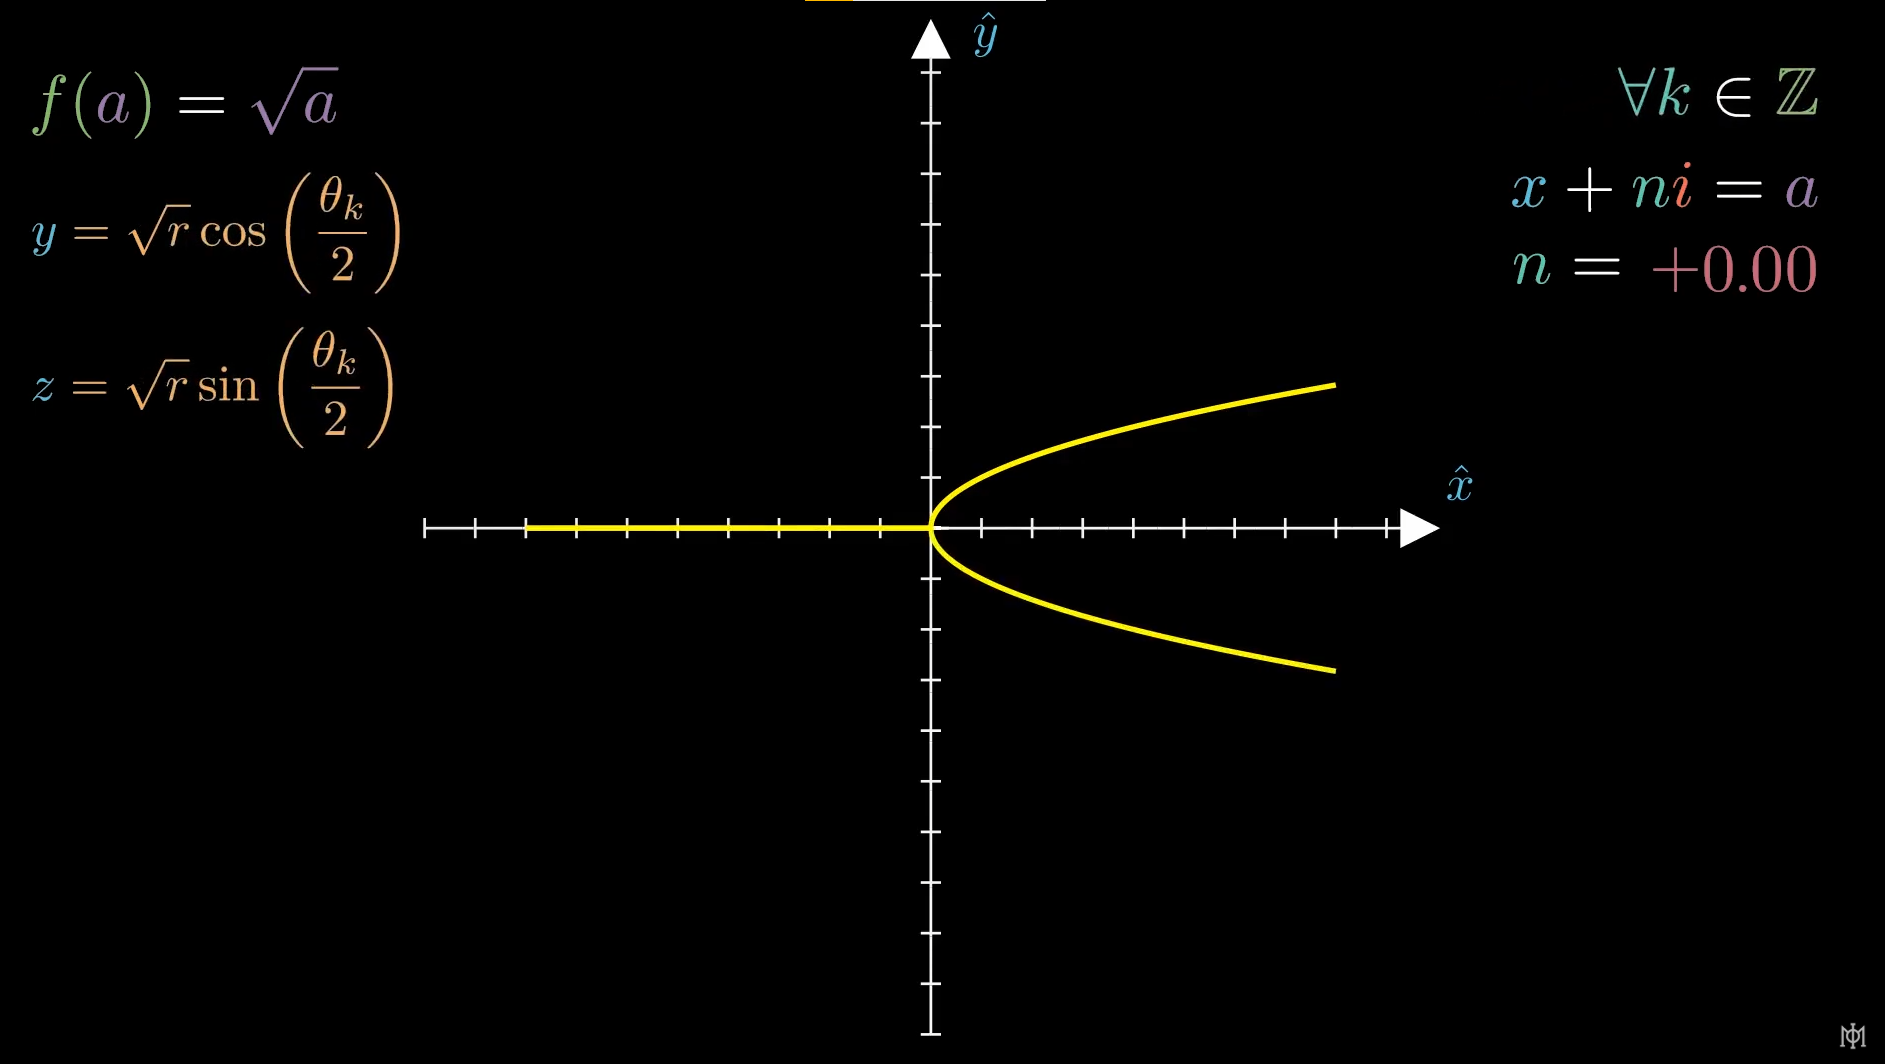
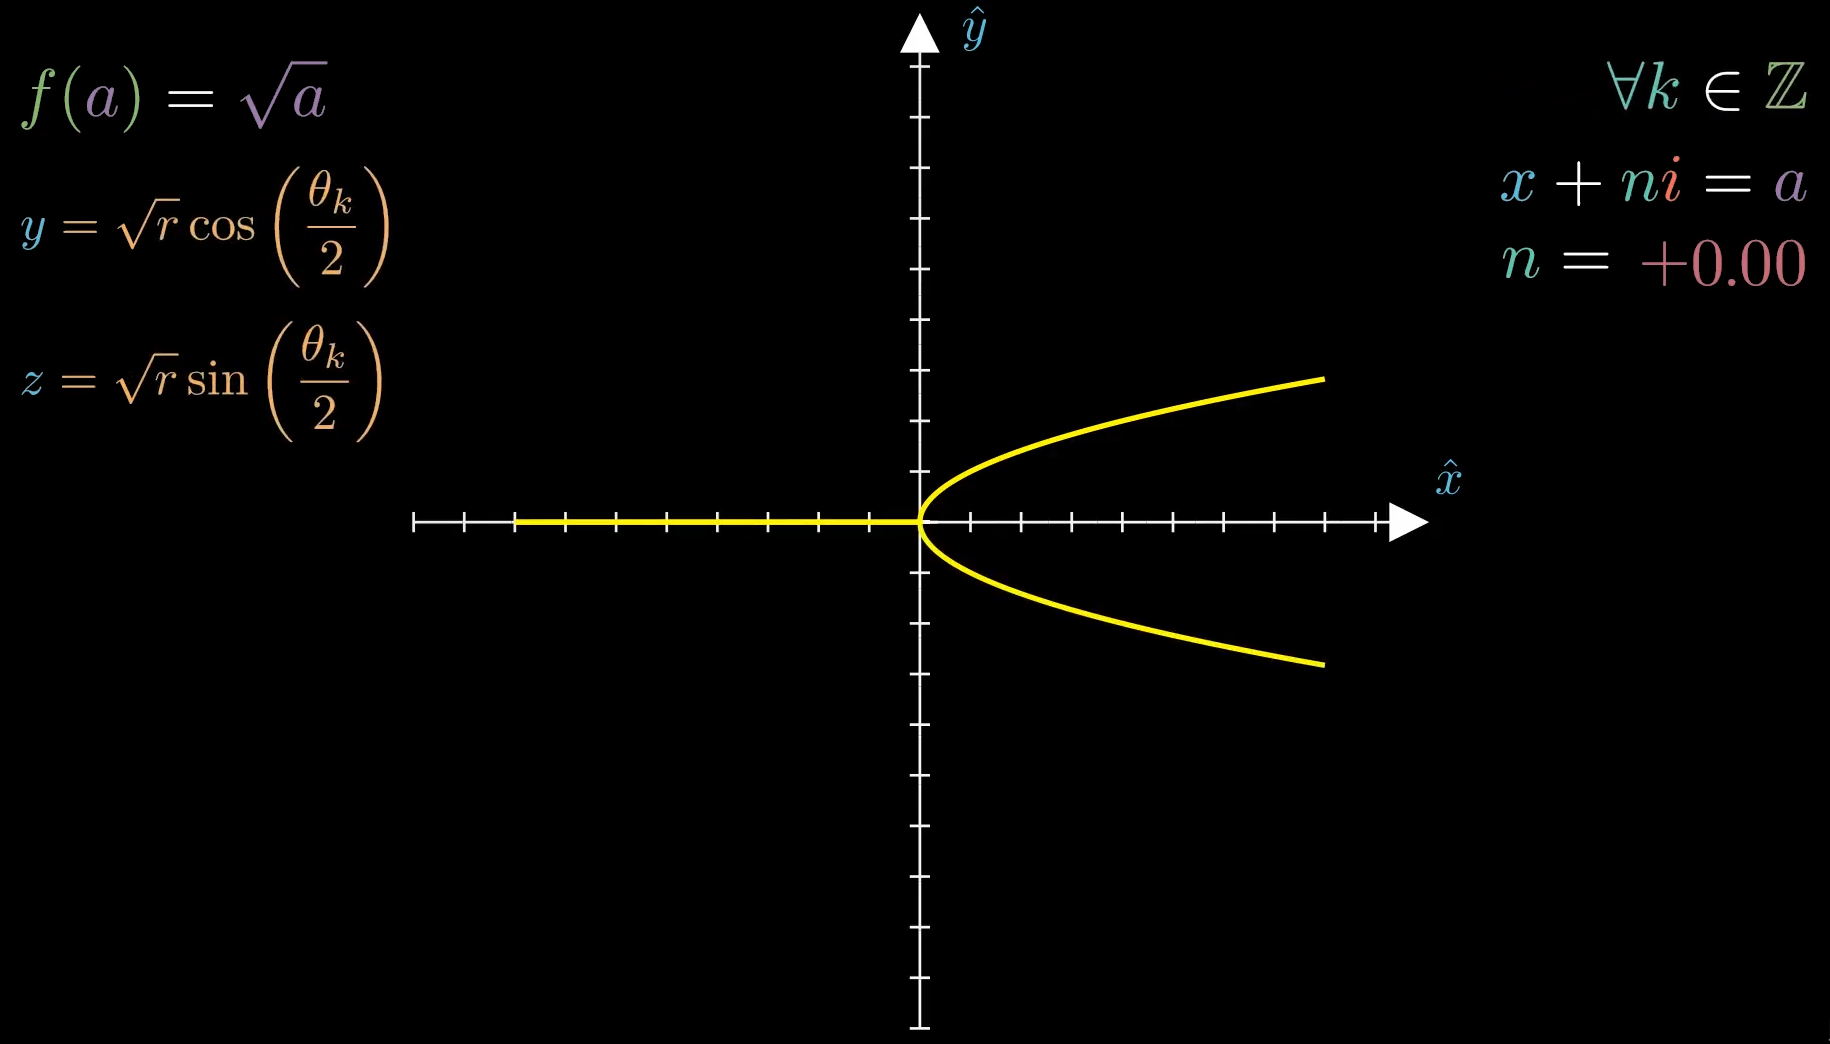
Add files via upload

diff --git a/js/inyectar-proyecto.js b/js/inyectar-proyecto.js
@@ -641,11 +641,14 @@ document.addEventListener('DOMContentLoaded', async () => {
         // 2. Sección opcional: Imágenes (carrusel) y Descripción
         renderDescripcionYImagenes(meta, folder, projectId);
 
-        // 3. Logs del Diarium
+        // 3. Logs del Diarium (pestaña dinámica "Bitácora")
         const projLogsList = document.getElementById('proj-logs-list');
-        if (projLogsList) {
-            const filteredLogs = diariumLogs.filter(log => log.proyecto === projectId);
-            if (filteredLogs.length > 0) {
+        const tabDiariumBtn = document.getElementById('tab-btn-diarium');
+        const filteredLogs = diariumLogs.filter(log => log.proyecto === projectId);
+
+        if (filteredLogs.length > 0) {
+            if (tabDiariumBtn) tabDiariumBtn.classList.remove('hidden');
+            if (projLogsList) {
                 projLogsList.innerHTML = filteredLogs.map(log => `
                     <div class="log-card">
                         <div class="log-header">
@@ -654,9 +657,10 @@ document.addEventListener('DOMContentLoaded', async () => {
                         <p class="log-text">${log.texto}</p>
                     </div>
                 `).join('');
-            } else {
-                projLogsList.innerHTML = `<p class="empty-logs-msg">No hay registros de bitácora para este proyecto todavía.</p>`;
             }
+        } else {
+            if (tabDiariumBtn) tabDiariumBtn.classList.add('hidden');
+            if (projLogsList) projLogsList.innerHTML = '';
         }
 
         // 4. Desplegable de Citas (Siempre visible)
@@ -889,8 +893,46 @@ function renderVersionesList(versiones, activeVersion, getVersionUrl) {
 
 
 function setupTabs() {
+    const tabsNav = document.querySelector('.tabs-nav');
     const tabButtons = document.querySelectorAll('.tab-btn');
     const tabContents = document.querySelectorAll('.tab-content');
+
+    if (!tabsNav || tabButtons.length === 0) return;
+
+    let indicator = tabsNav.querySelector('.tab-indicator');
+    if (!indicator) {
+        indicator = document.createElement('span');
+        indicator.className = 'tab-indicator';
+        indicator.setAttribute('aria-hidden', 'true');
+        tabsNav.appendChild(indicator);
+    }
+
+    const moveIndicator = (targetBtn, animate = true) => {
+        const activeBtn = targetBtn && !targetBtn.classList.contains('hidden')
+            ? targetBtn
+            : (tabsNav.querySelector('.tab-btn.active:not(.hidden)') || tabsNav.querySelector('.tab-btn:not(.hidden)'));
+
+        if (!activeBtn) {
+            indicator.style.opacity = '0';
+            return;
+        }
+
+        const left = activeBtn.offsetLeft;
+        const width = activeBtn.offsetWidth;
+
+        if (!animate) {
+            indicator.classList.add('no-transition');
+            indicator.style.transform = `translateX(${left}px)`;
+            indicator.style.width = `${width}px`;
+            indicator.style.opacity = '1';
+            indicator.offsetWidth;
+            indicator.classList.remove('no-transition');
+        } else {
+            indicator.style.transform = `translateX(${left}px)`;
+            indicator.style.width = `${width}px`;
+            indicator.style.opacity = '1';
+        }
+    };
 
     tabButtons.forEach(button => {
         button.addEventListener('click', () => {
@@ -900,6 +942,7 @@ function setupTabs() {
             tabContents.forEach(content => content.classList.remove('active'));
 
             button.classList.add('active');
+            moveIndicator(button, true);
 
             const targetContent = document.getElementById(targetId);
             if (targetContent) {
@@ -907,4 +950,13 @@ function setupTabs() {
             }
         });
     });
+
+    moveIndicator(null, false);
+    requestAnimationFrame(() => moveIndicator(null, false));
+
+    window.addEventListener('resize', () => moveIndicator(null, false));
+
+    if (document.fonts && document.fonts.ready) {
+        document.fonts.ready.then(() => moveIndicator(null, false));
+    }
 }

diff --git a/css/projectum.css b/css/projectum.css
@@ -309,25 +309,47 @@
 }
 
 /* --------------------------------------------------------------------------
-   4. NAVEGACIÓN DE PESTAÑAS
+   4. NAVEGACIÓN DE PESTAÑAS (Indicador luminoso integrado)
    -------------------------------------------------------------------------- */
 .tabs-nav {
+    position: relative;
     display: flex;
-    gap: 1rem;
-    border-bottom: 1px solid var(--border-color);
-    margin-bottom: 2rem;
+    align-items: center;
+    gap: 0.75rem;
+    padding-bottom: 0.15rem;
+    margin-bottom: 2.25rem;
+}
+
+/* Línea divisora sutil que se desvanece hacia la derecha */
+.tabs-nav::after {
+    content: '';
+    position: absolute;
+    left: 0;
+    right: 0;
+    bottom: 0;
+    height: 1px;
+    background: linear-gradient(
+        90deg,
+        var(--border-highlight) 0%,
+        var(--border-color) 55%,
+        transparent 100%
+    );
+    pointer-events: none;
 }
 
 .tab-btn {
-    background: none;
+    position: relative;
+    background: transparent;
     border: none;
-    padding: 0.6rem 1rem;
+    padding: 0.6rem 0.85rem 0.75rem;
     color: var(--text-muted);
     font-family: var(--font-mono);
-    font-size: 0.9rem;
+    font-size: 0.88rem;
+    letter-spacing: 0.02em;
     cursor: pointer;
-    border-bottom: 2px solid transparent;
-    transition: color var(--transition-fast), border-color var(--transition-fast);
+    user-select: none;
+    transition: color 300ms var(--ease-hypr),
+                text-shadow 300ms var(--ease-hypr);
 }
 
 .tab-btn:hover {
@@ -336,7 +358,52 @@
 
 .tab-btn.active {
     color: var(--text-main);
-    border-bottom-color: var(--text-main);
+    text-shadow: 0 0 18px rgba(250, 204, 21, 0.25);
+}
+
+/* Barra deslizante con extremos suavizados y glow contenido */
+.tab-indicator {
+    position: absolute;
+    bottom: 0;
+    left: 0;
+    height: 2px;
+    width: 0;
+    border-radius: 999px;
+    background: linear-gradient(
+        90deg,
+        transparent 0%,
+        var(--accent-primary) 22%,
+        var(--accent-primary) 78%,
+        transparent 100%
+    );
+    box-shadow: 0 0 8px rgba(250, 204, 21, 0.34);
+    pointer-events: none;
+    opacity: 0;
+    z-index: 1;
+    transition: transform 420ms var(--ease-hypr),
+                width 420ms var(--ease-hypr),
+                opacity 260ms var(--ease-hypr);
+}
+
+/* Aura ambiental tenue sobre el divisor */
+.tab-indicator::after {
+    content: '';
+    position: absolute;
+    left: 14%;
+    right: 14%;
+    top: -9px;
+    bottom: -9px;
+    background: radial-gradient(
+        ellipse at center,
+        rgba(250, 204, 21, 0.1) 0%,
+        rgba(250, 204, 21, 0.03) 45%,
+        transparent 72%
+    );
+    pointer-events: none;
+}
+
+.tab-indicator.no-transition {
+    transition: none !important;
 }
 
 .tab-content {
@@ -345,6 +412,20 @@
 
 .tab-content.active {
     display: block;
+    animation: tabContentEnter 800ms var(--ease-hypr);
+}
+
+@keyframes tabContentEnter {
+    from {
+        opacity: 0;
+        translate: 0 30px;
+        scale: 0.98;
+    }
+    to {
+        opacity: 1;
+        translate: 0 0;
+        scale: 1;
+    }
 }
 
 /* --------------------------------------------------------------------------

diff --git a/html/projectum.html b/html/projectum.html
@@ -94,8 +94,9 @@
 
         <!-- NAVEGACIÓN DE PESTAÑAS -->
         <div class="tabs-nav">
-            <button class="tab-btn active" data-tab="tab-bitacora">Bitácora</button>
+            <button class="tab-btn active" data-tab="tab-bitacora">Archivo</button>
             <button class="tab-btn" data-tab="tab-latex">Visor PDF</button>
+            <button id="tab-btn-diarium" class="tab-btn hidden" data-tab="tab-diarium">Bitácora</button>
         </div>
 
         <!-- PESTAÑA 1: BITÁCORA COMPLETA -->
@@ -159,15 +160,6 @@
                 </div>
 
             </section>
-
-            <!-- LOGS DEL DIARIUM -->
-            <section class="logs-section">
-                <h3 class="section-subtitle">📅 Bitácora de Campo (Diarium)</h3>
-                <div id="proj-logs-list" class="logs-grid">
-                    <!-- Inyectado como cajitas -->
-                </div>
-            </section>
-
         </div>
 
         <!-- PESTAÑA 2: VISOR DEDICADO (PDF / Vídeo YouTube) -->
@@ -175,6 +167,15 @@
             <div class="pdf-wrapper">
                 <iframe id="proj-pdf-iframe" src="" class="pdf-iframe"></iframe>
             </div>
+        </div>
+
+        <!-- PESTAÑA 3: BITÁCORA (Logs del Diarium) -->
+        <div id="tab-diarium" class="tab-content">
+            <section class="logs-section">
+                <div id="proj-logs-list" class="logs-grid">
+                    <!-- Inyectado como cajitas -->
+                </div>
+            </section>
         </div>
 
     </main>

diff --git a/css/base.css b/css/base.css
@@ -34,3 +34,39 @@ a:hover {
     background-color: var(--accent-primary);
     color: var(--bg-main);
 }
+
+/* ==========================================================================
+   TRANSICIONES ENTRE PÁGINAS
+   ========================================================================== */
+main {
+    opacity: 0;
+    transform: translateY(6px);
+    animation:
+        pageFade 240ms linear 75ms forwards,
+        pageSlide 240ms var(--ease-hypr, cubic-bezier(0.22, 1, 0.36, 1)) 75ms forwards;
+}
+
+main.is-ready {
+    animation:
+        pageFade 240ms linear 0ms forwards,
+        pageSlide 240ms var(--ease-hypr, cubic-bezier(0.22, 1, 0.36, 1)) 0ms forwards;
+}
+
+@keyframes pageFade {
+    from { opacity: 0; }
+    to   { opacity: 1; }
+}
+
+@keyframes pageSlide {
+    from { transform: translateY(6px); }
+    to   { transform: translateY(0); }
+}
+
+@media (prefers-reduced-motion: reduce) {
+    main,
+    main.is-ready {
+        opacity: 1;
+        transform: none;
+        animation: none;
+    }
+}
